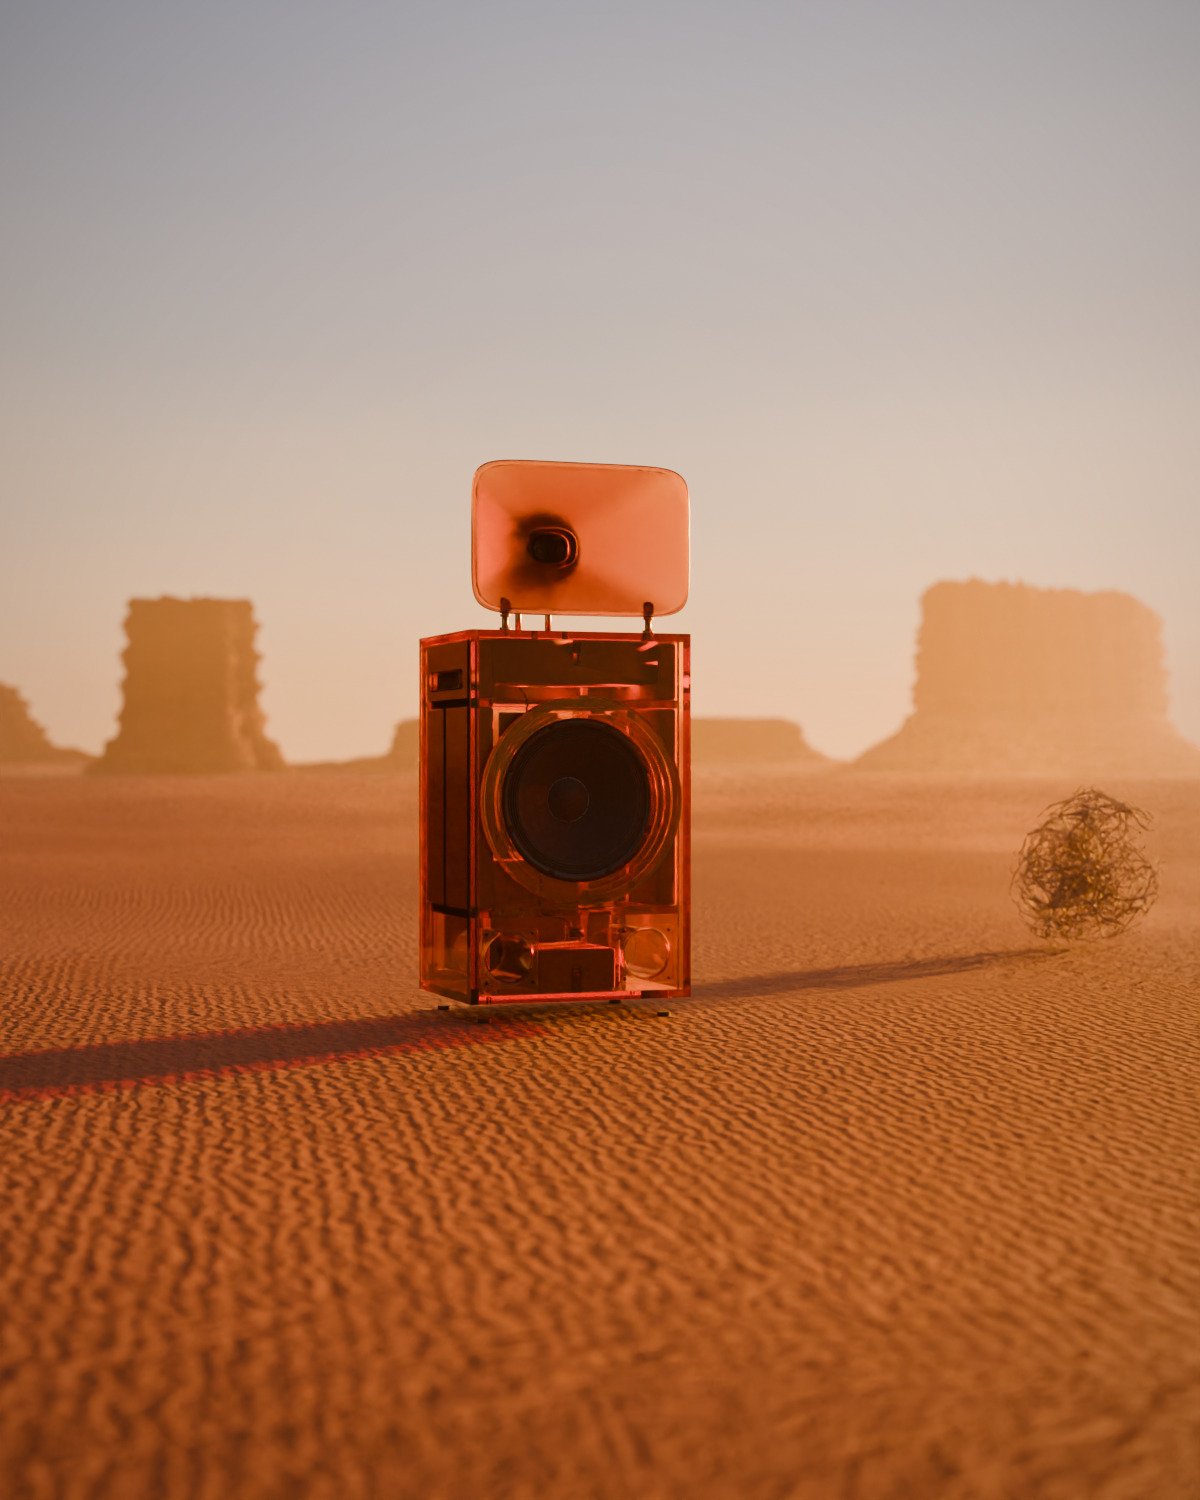
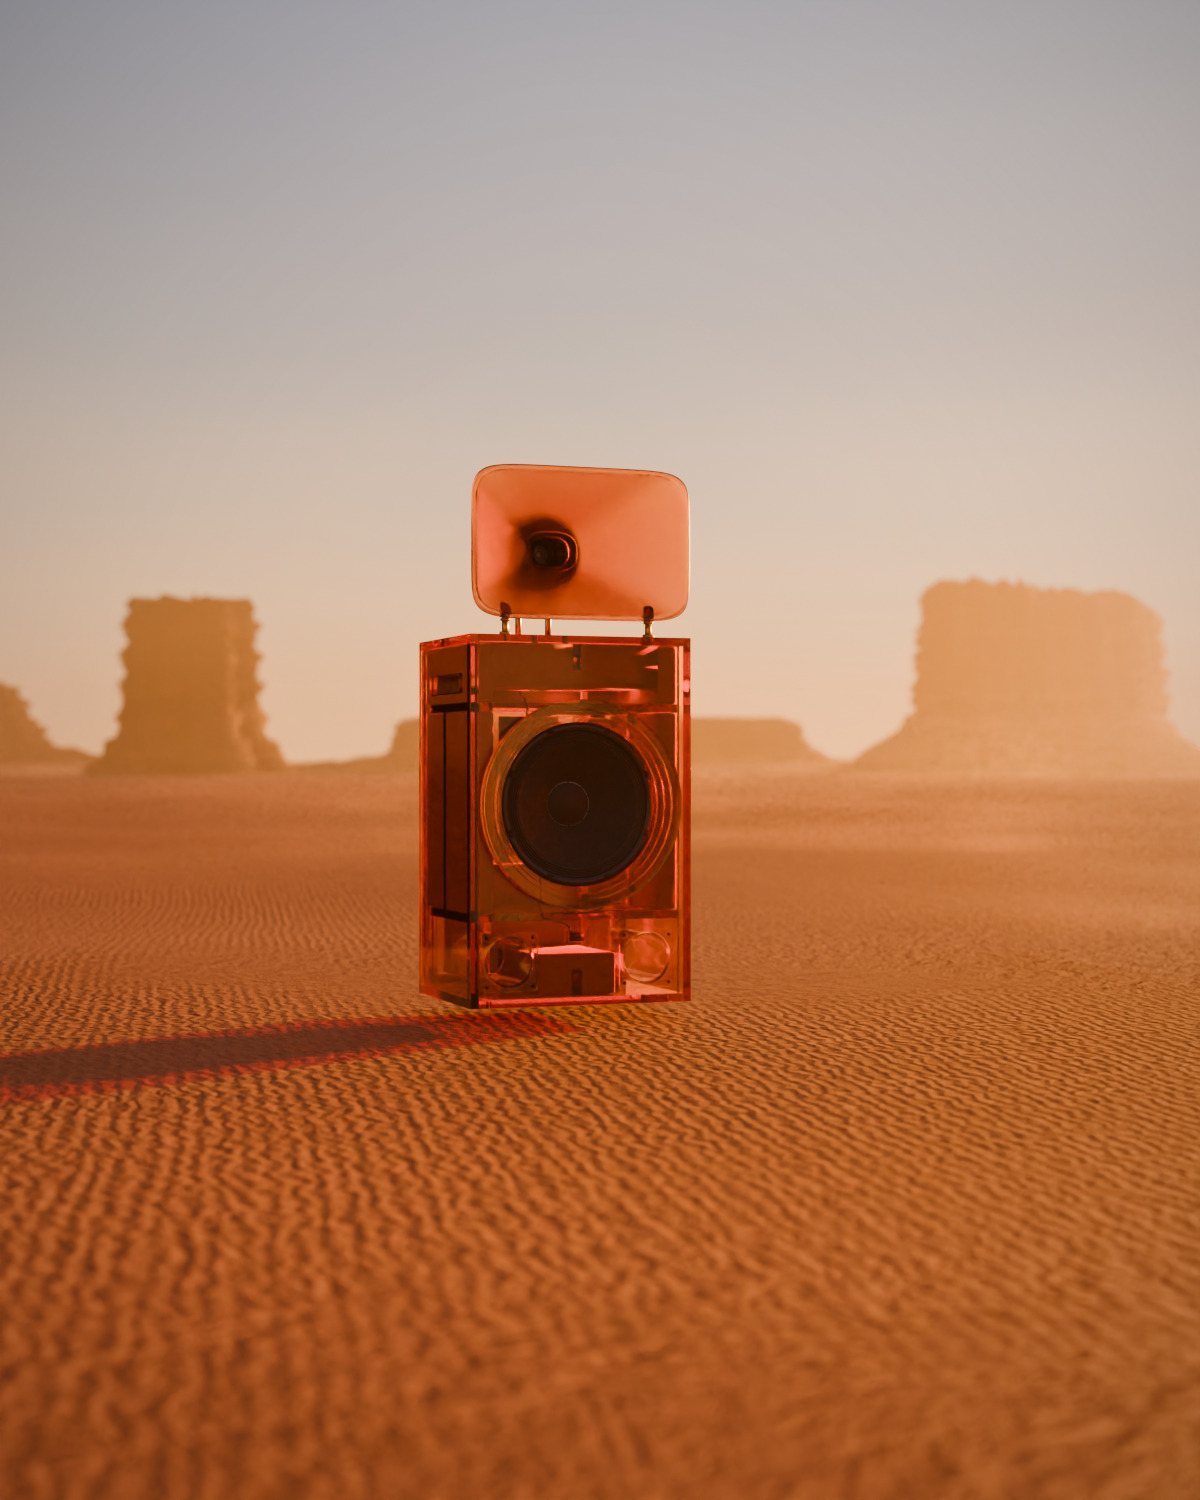
biomes: Dust on horn A, bedded 12 mm, sand bounce, no tumbleweed, the gate: all four PASS
Claude-Session: https://claude.ai/code/session_01BAaPTnGwdpP4WKGVD3vbqx

Changed region(s): [[0.3083, 0.3067, 0.9558, 0.7053]]

diff --git a/renders/2026-11-03/barkhorn/habitats/CHECK.md b/renders/2026-11-03/barkhorn/habitats/CHECK.md
@@ -20,3 +20,4 @@ Withdrawn:
 | Habitat | see_through | grounded | no_light_down | smooth_horn | Notes |
 |---|---|---|---|---|---|
 | Ember | PASS | PASS | PASS | PASS | rotate_z -1, crack_r on the speaker at 2.0, camera at 0.8 m, 96 samples. At 390 px the ground under the base is 14.8, the base 13.6 and open ground 45.9. The peak along the foot is 60 (it was 181). The woofer, surround, braces, posts and ports show through the front and side, and the driver shows through the horn. The contact band is continuous. |
+| Dust | PASS | PASS | PASS | PASS | Sand bounce at 0.35 (0.77), tumbleweed dropped, 64 samples. The bottom edge is in the ripples with a dark contact line: luma 62-69 under the base against 90+ for open sand, and no feet or gap show. The woofer, ring, braces, ports, amp box and screws show through. The red in the shadow is light through the tint. The horn is smooth, with faint soft creases toward the corners and no bold X. |
